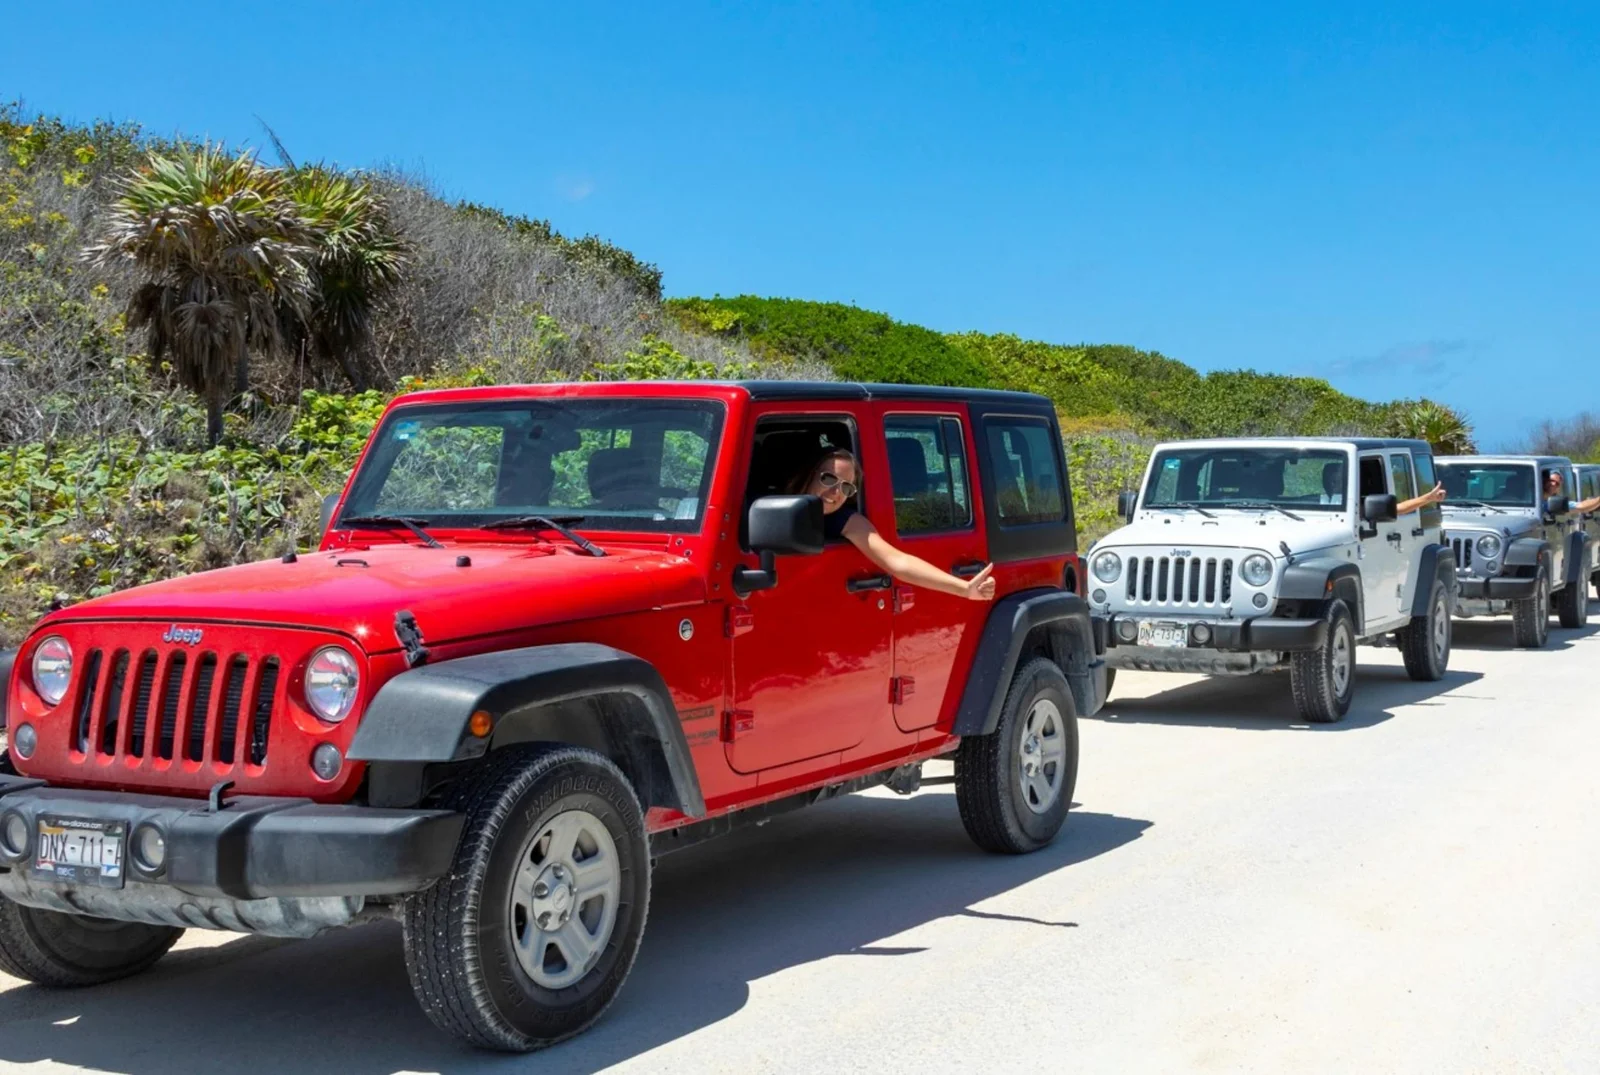
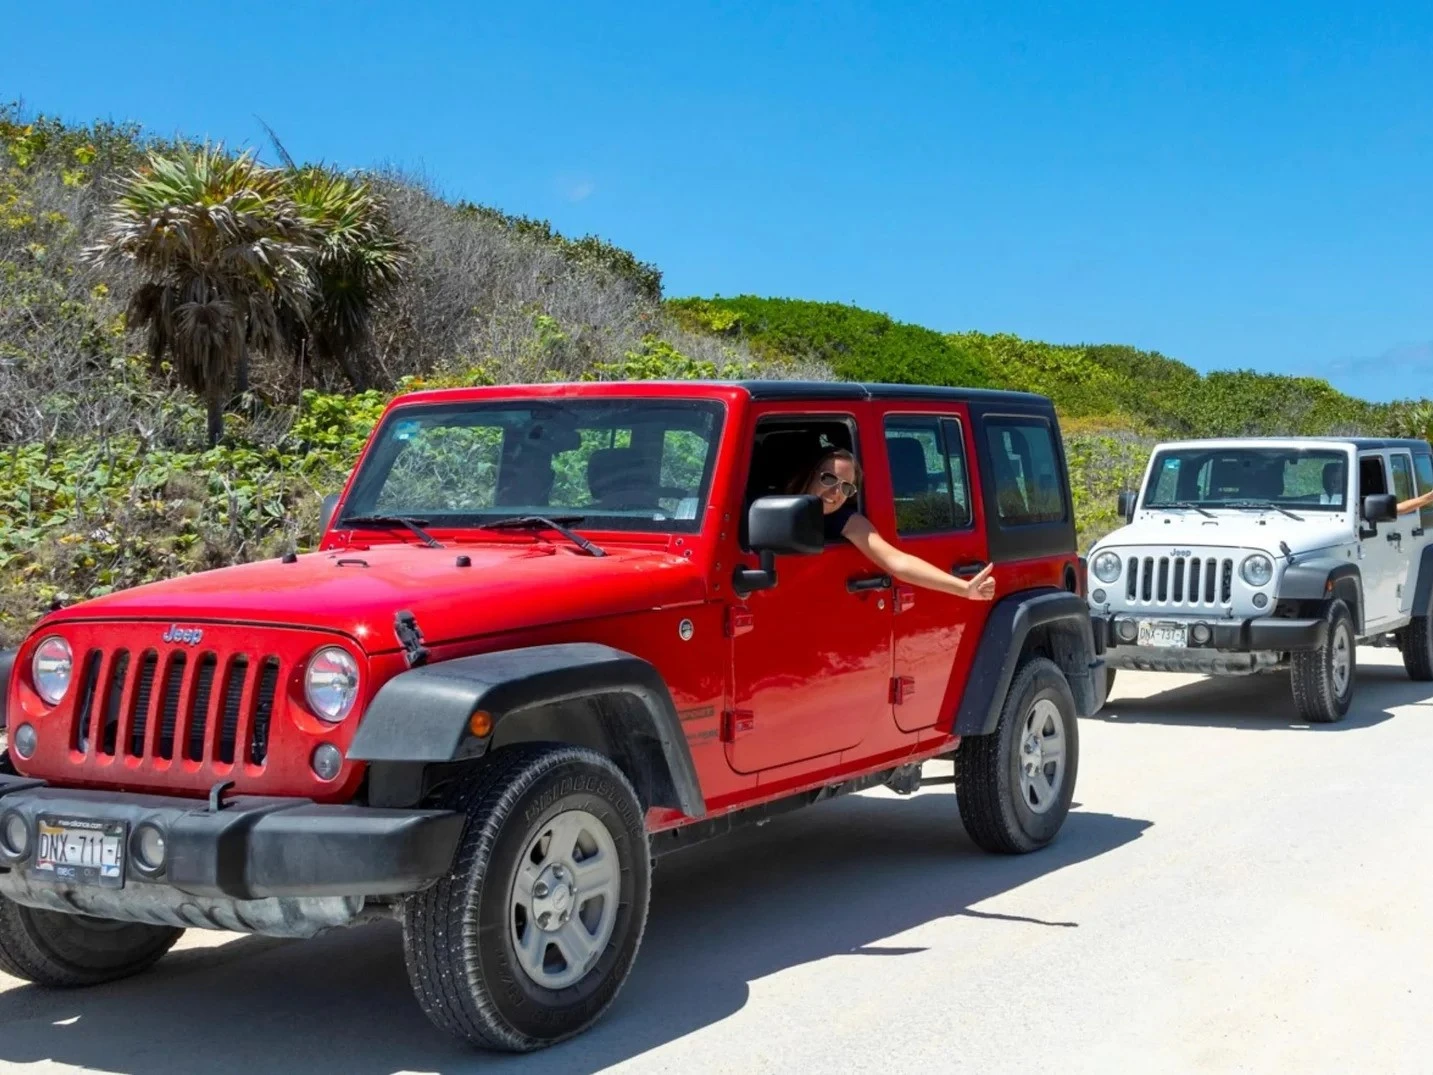
actualization

diff --git a/index.html b/index.html
@@ -69,7 +69,7 @@
 	<div class="hero">
 		<picture>
 
-			<img src="./images/hero-2.jpg" alt="Hero Image">
+			<img src="./images/hero-2.webp" alt="Hero Image">
 		</picture>
 		<div>
 			<h2 class="title-h2">Discover Cozumel with </h2>
@@ -94,7 +94,7 @@
 		<section class="cards-container1 home-grid">
 			<div class="card">
 				<h2>Scooter</h2>
-				<img src="./images/scooters/metro-terreno.jpg" alt="Scooter-Metro">
+				<img src="./images/scooters/metro-terreno.webp" alt="Scooter-Metro">
 				<div class="card-info">
 					<p>From</p>
 					<span class="price" data-usd="70.00">$70.00</span>
@@ -103,7 +103,7 @@
 			</div>
 			<div class="card">
 				<h2>Scooters</h2>
-				<img src="./images/scooters/scooter-1.jpg" alt="Scooter-Dio">
+				<img src="./images/scooters/scooter-1.webp" alt="Scooter-Dio">
 				<div class="card-info">
 					<p>From</p>
 					<span class="price" data-usd="20.00" >$20.00</span>
@@ -113,7 +113,7 @@
 
 			<div class="card">
 				<h2>Scooters</h2>
-				<img src="./images/scooters/scooter-2.jpg" alt="Scooter-pcx150">
+				<img src="./images/scooters/scooter-2.webp" alt="Scooter-pcx150">
 				<div class="card-info">
 					<p>From</p>
 					<span class="price" data-usd="40.00" >$40.00</span>
@@ -124,7 +124,7 @@
 
 			<div class="card">
 				<h2>Honda Pioneer ATV</h2>
-				<img src="./images/cuatriciclos/Honda Pioneer ATV-2.jpg" alt="Honda Pioneer ATV">
+				<img src="./images/cuatriciclos/Honda Pioneer ATV.webp" alt="Honda Pioneer ATV">
 				<div class="card-info">
 					<p>From</p>
 					<span class="price" data-usd="50.00" >$50.00</span>
@@ -133,7 +133,7 @@
 			</div>
 			<div class="card">
 				<h2>Jeep Wrangler</h2>
-				<img src="./images/jeeps/jeep-terreno-2puertas.jpg" alt="Jeep Wrangler">
+				<img src="./images/jeeps/jeep-terreno-2puertas.webp" alt="Jeep Wrangler">
 				<div class="card-info">
 					<p>From</p>
 					<span class="price" data-usd="60.00" >$60.00</span>
@@ -160,7 +160,7 @@
 		</div>
 		<div class="cards-container2 home-grid">
 			<div class="card-ofert">
-				<img class="image-ofert" src="./images/Diseño sin título/3.png" alt="number 1">
+				<img class="image-ofert" src="./images/Diseño sin título/1.png" alt="number 1">
 				<h2>Find</h2>
 				<p>
 					<a href="rentals.html">Check availability and reserve your vehicles and accessories.</a>
@@ -178,7 +178,7 @@
 				</p>
 
 			</div>
-			<div class="card-ofert2">
+			<div class="card-ofert3">
 				<img class="image-ofert" src="./images/Diseño sin título/3.png" alt="number 3">
 				<h2>Enjoy the Ride</h2>
 				<p>

diff --git a/bookings.html b/bookings.html
@@ -62,15 +62,9 @@
 	<div class="hero">
 		<picture>
 
-			<img src="./images/cozumel-banner-copy.jpeg" alt="hero image">
+			<img src="./images/hero-4.webp" alt="hero image">
 		</picture>
-		<div>
 			<h1 class="title-h1">SCOOTS!</h1>
-
-		</div>
-
-		<button class="btn"><a href="./rentals.html">Rent Now</a>
-		</button>
 	</div>
 	<main class="home-box home-grid">
         <section class="contract-information">
